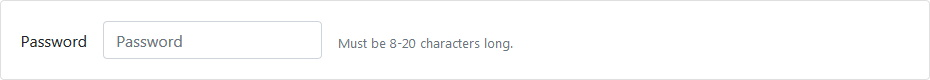
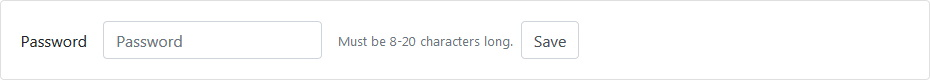
~

Changed region(s): [[0.343, 0.45, 0.6237, 0.65], [0.5613, 0.725, 0.6237, 0.75], [0.5613, 0.25, 0.6237, 0.275]]

diff --git a/Service/bootstrap/forms/README.md b/Service/bootstrap/forms/README.md
@@ -1507,28 +1507,40 @@
 
   FormGroupSingleManager SingleGroup = new FormGroupSingleManager();
   SingleGroup.CustomInput.Label = "Password";
-  SingleGroup.CustomInput.Input = new InputPasswordManager()
+  SingleGroup.CustomInput.Input = new InputTextManager()
   {
     Placeholder = "Password",
     ID = "input-password-dom-id"
-  }.AddCSS("mx-sm-3") as InputPasswordManager;
+  }.AddCSS("mx-sm-3") as InputTextManager;
   SingleGroup.CustomInput.HelpCaption = "Must be 8-20 characters long.";
   form.AddChild(SingleGroup);
 
-  @await Component.InvokeAsync(form.ViewComponentName, new { SetObjectManager = form })
+  SingleGroup = new FormGroupSingleManager().AddCSS("ml-2 mt-2 mt-md-0") as FormGroupSingleManager;
+  SingleGroup.CustomInput.Input = new InputSubmitManager()
+  {
+    Value = "Save",
+    ID = "input-submit-dom-id"
+  };
+  form.AddChild(SingleGroup);
+
+    @await Component.InvokeAsync(form.ViewComponentName, new { SetObjectManager = form })
 }
 ```
 
 ***result:***
 
 ![Forms inline input help text](../../../demo/forms-inline-input-help-text.jpg)
+![Forms inline input help text](../../../demo/forms-inline-input-help-text-sm.jpg)
 
 ```html
 <form accept-charset="utf-8" id="demo-form-dom-id" class="form-inline">
   <div class="form-group">
     <label for="input-password-dom-id">Password</label>
-    <input aria-describedby="input-password-dom-id-HelpCaption" id="input-password-dom-id" name="input-password-dom-id" placeholder="Password" type="password" class="mx-sm-3 form-control" />
-    <small id="input-password-dom-id-HelpCaption" class="form-text text-muted">Must be 8-20 characters long.</small>
+    <input aria-describedby="input-password-dom-id-HelpCaption" id="input-password-dom-id" name="input-password-dom-id" placeholder="Password" type="text" class="mx-sm-3 form-control" />
+    <small id="input-password-dom-id-HelpCaption" class="text-muted">Must be 8-20 characters long.</small>
+  </div>
+  <div class="ml-2 mt-2 mt-md-0 form-group">
+    <input id="input-submit-dom-id" name="input-submit-dom-id" type="submit" value="Save" class="form-control">
   </div>
 </form>
 ```
